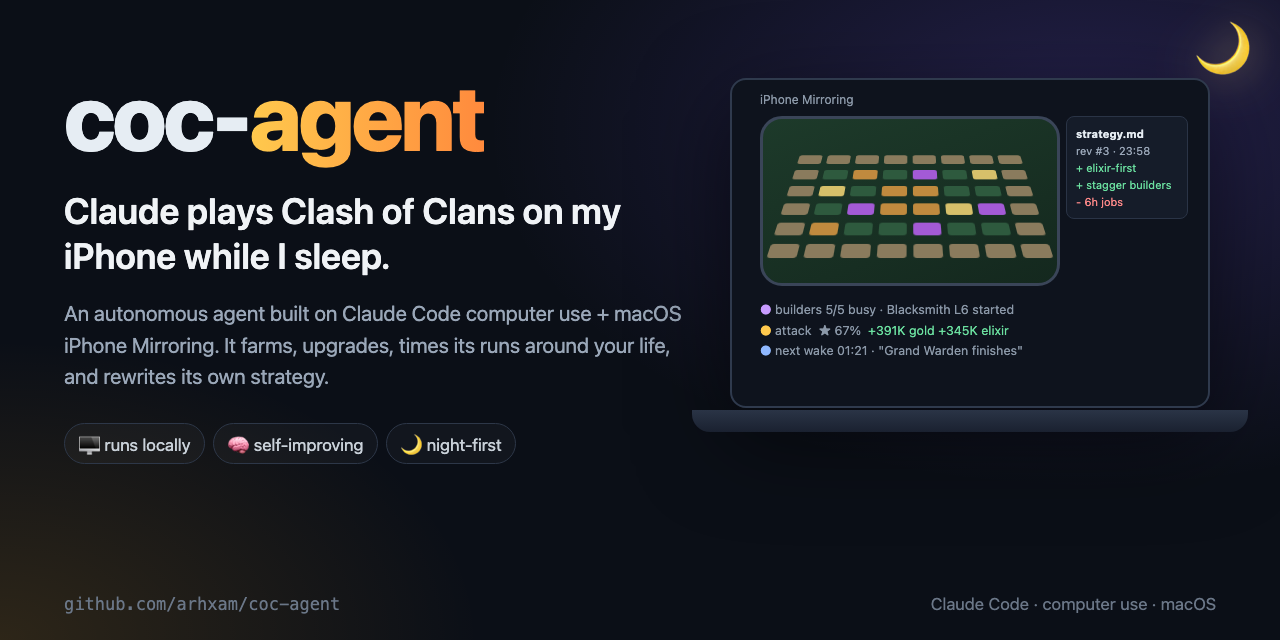
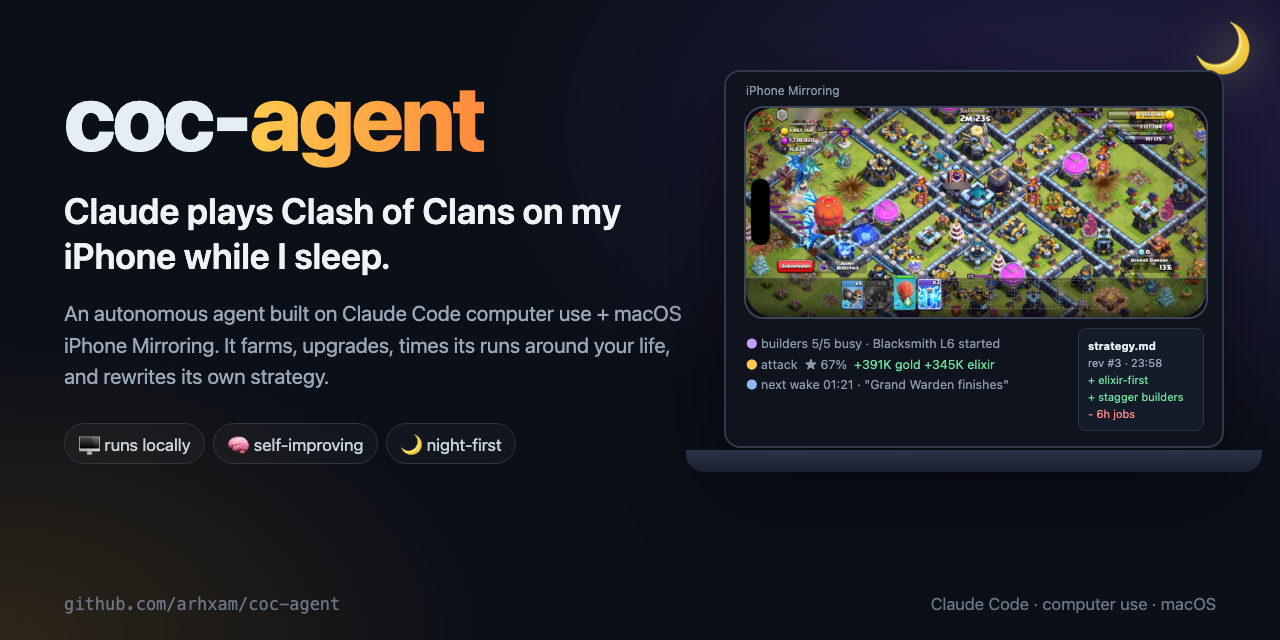
Add real Clash of Clans screenshots from the agent's first run
Frames come from the agent's own computer-use screenshots, with player and
clan names blurred. Adds a hero shot, a run timeline captioned with the
agent's own narration, a screenshot grid in the README, a banner using real
gameplay, and Supercell's fan content notice.

Changed region(s): [[0.5312, 0.0938, 1.0, 0.75]]

diff --git a/docs/images/src/banner.html b/docs/images/src/banner.html
@@ -5,16 +5,17 @@ h1 .a{background:linear-gradient(90deg,#ffc94d,#ff8a3d);-webkit-background-clip:
 .tag{font-size:36px;line-height:1.25;margin-top:26px;font-weight:600;color:#f0f3f6}
 .sub{font-size:21px;line-height:1.5;color:#9aa7b8;margin-top:20px}
 .pills{margin-top:30px}
-.mac{position:absolute;right:70px;top:78px;width:480px;height:330px;border-radius:16px;border:2px solid #2f3a4d;background:#0e131d;box-shadow:0 30px 90px rgba(0,0,0,.55)}
+.mac{position:absolute;right:56px;top:70px;width:500px;height:378px;border-radius:16px;border:2px solid #2f3a4d;background:#0e131d;box-shadow:0 30px 90px rgba(0,0,0,.55)}
 .mac:after{content:"";position:absolute;left:-40px;right:-40px;bottom:-26px;height:22px;border-radius:0 0 18px 18px;background:linear-gradient(#2a3446,#1a2130)}
 .phone{position:absolute;left:28px;top:36px;width:300px;height:170px;border-radius:22px;border:3px solid #3a4558;background:linear-gradient(160deg,#1d3a2a,#14281e);overflow:hidden}
 .grid{position:absolute;inset:16px 22px;display:grid;grid-template-columns:repeat(8,1fr);gap:6px;transform:perspective(300px) rotateX(38deg);}
 .grid b{height:14px;border-radius:3px;background:#2e5a3e}
 .grid b.w{background:#8a7b5d}.grid b.h{background:#c08a3e}.grid b.e{background:#a35ad6}.grid b.t{background:#d6c06a}
-.ttl{position:absolute;left:28px;top:12px;font-size:12px;color:#8b98a8}
-.card{position:absolute;right:20px;top:36px;width:122px;font-size:11px;line-height:1.55;color:#9aa7b8;background:#151c29;border:1px solid #2a3446;border-radius:8px;padding:8px 9px}
+.shot{position:absolute;left:18px;top:34px;width:464px;border-radius:20px;border:2px solid #3a4558}
+.ttl{position:absolute;left:20px;top:11px;font-size:12px;color:#8b98a8}
+.card{position:absolute;right:18px;top:256px;width:126px;font-size:11px;line-height:1.55;color:#9aa7b8;background:#151c29;border:1px solid #2a3446;border-radius:8px;padding:8px 9px}
 .card b{color:#e6edf3}
-.log{position:absolute;left:28px;right:20px;top:220px;font-size:12.5px;line-height:1.65;color:#8b98a8}
+.log{position:absolute;left:20px;right:150px;top:262px;font-size:12.5px;line-height:1.65;color:#8b98a8}
 .moon{position:absolute;right:30px;top:14px;font-size:54px;filter:drop-shadow(0 0 22px rgba(255,220,140,.5))}
 </style></head><body>
 <div class=l>
@@ -26,20 +27,13 @@ h1 .a{background:linear-gradient(90deg,#ffc94d,#ff8a3d);-webkit-background-clip:
 <div class=moon>🌙</div>
 <div class=mac>
  <div class=ttl>iPhone Mirroring</div>
- <div class=phone><div class=grid>
-  <b class=w></b><b class=w></b><b class=w></b><b class=w></b><b class=w></b><b class=w></b><b class=w></b><b class=w></b>
-  <b class=w></b><b></b><b class=h></b><b></b><b class=e></b><b></b><b class=t></b><b class=w></b>
-  <b class=w></b><b class=t></b><b></b><b class=h></b><b class=h></b><b></b><b></b><b class=w></b>
-  <b class=w></b><b></b><b class=e></b><b class=h></b><b class=h></b><b class=t></b><b class=e></b><b class=w></b>
-  <b class=w></b><b class=h></b><b></b><b></b><b class=e></b><b></b><b></b><b class=w></b>
-  <b class=w></b><b class=w></b><b class=w></b><b class=w></b><b class=w></b><b class=w></b><b class=w></b><b class=w></b>
- </div></div>
- <div class=card><b>strategy.md</b><br>rev #3 · 23:58<br><span class=g>+ elixir-first</span><br><span class=g>+ stagger builders</span><br><span class=r>- 6h jobs</span></div>
- <div class=log class=mono>
+ <img class=shot src="../game/attack.jpg">
+ <div class=log>
   <span class=p>●</span> builders 5/5 busy · Blacksmith L6 started<br>
   <span class=y>●</span> attack &nbsp;★ 67% &nbsp;<span class=g>+391K gold +345K elixir</span><br>
   <span class=b>●</span> next wake 01:21 · "Grand Warden finishes"
  </div>
+ <div class=card><b>strategy.md</b><br>rev #3 · 23:58<br><span class=g>+ elixir-first</span><br><span class=g>+ stagger builders</span><br><span class=r>- 6h jobs</span></div>
 </div>
 <div class=foot><span class=mono>github.com/arhxam/coc-agent</span><span>Claude Code · computer use · macOS</span></div>
 </body></html>

diff --git a/docs/images/src/timeline.html b/docs/images/src/timeline.html
@@ -1,0 +1,21 @@
+<html><head><link rel=stylesheet href=common.css><style>
+html,body{height:720px}
+h2{position:absolute;left:64px;top:40px;font-size:40px;font-weight:800;letter-spacing:-1px}
+.s{position:absolute;left:64px;top:96px;font-size:19px;color:#9aa7b8}
+.g{position:absolute;left:64px;top:146px;width:1152px;display:grid;grid-template-columns:repeat(3,1fr);gap:22px 20px}
+.c img{width:100%;border-radius:12px;display:block;border:1px solid #263041}
+.t{margin-top:9px;font-size:13px;color:#ffc94d;font-family:"SF Mono",Menlo,monospace}
+.q{margin-top:3px;font-size:14.5px;line-height:1.4;color:#d5dde6}
+.q:before{content:"“"}.q:after{content:"”"}
+</style></head><body>
+<h2>One run, through the agent's eyes</h2>
+<div class=s>Real screenshots Claude took during its first run. The captions are its own words, quoted from the session log.</div>
+<div class=g>
+ <div class=c><img src="../game/home.jpg"><div class=t>13:43 · home village</div><div class=q>Game is open and I'm in the village: collected loot, now reading the Gold Storage's buttons before checking the free builder.</div></div>
+ <div class=c><img src="../game/upgrade.jpg"><div class=t>13:44 · builder</div><div class=q>Blacksmith upgrade is running on the last free builder.</div></div>
+ <div class=c><img src="../game/scout.jpg"><div class=t>13:44 · scouting</div><div class=q>Ranked attacks are used up, so I'm starting a regular multiplayer attack to refill elixir.</div></div>
+ <div class=c><img src="../game/attack.jpg"><div class=t>13:45 · attack 1</div><div class=q>Attack in progress on a 2M gold / 2.1M elixir base — deploying the last dragons, siege machine and lightning spells.</div></div>
+ <div class=c><img src="../game/dragons.jpg"><div class=t>13:49 · attack 2</div><div class=q>All troops are in on the second attack (25% and climbing) — writing memory files while the battle plays out.</div></div>
+ <div class=c><img src="../game/victory.jpg"><div class=t>13:52 · result</div><div class=q>3 zaps per AD killed 3 of 4 ADs (4+4+3), then 9 edrags from left edge.</div></div>
+</div>
+</body></html>

diff --git a/docs/images/src/hero.html b/docs/images/src/hero.html
@@ -1,0 +1,14 @@
+<html><head><link rel=stylesheet href=common.css><style>
+html,body{height:720px}
+.shot{position:absolute;left:64px;top:44px;width:1152px;border-radius:26px;border:1px solid #2a3446;box-shadow:0 30px 80px rgba(0,0,0,.6)}
+.bub{position:absolute;left:110px;right:110px;top:470px;background:rgba(13,17,26,.92);border:1px solid #6a4fb3;border-radius:16px;padding:18px 24px;backdrop-filter:blur(8px);box-shadow:0 20px 60px rgba(0,0,0,.5)}
+.who{font-size:15px;color:#c79bff;font-weight:700;margin-bottom:6px}
+.who span{color:#8b98a8;font-weight:400}
+.txt{font-size:23px;line-height:1.4;color:#f0f3f6}
+.foot{bottom:22px}
+</style></head><body>
+<img class=shot src="../game/attack.jpg">
+<div class=bub><div class=who>Claude <span>· 13:45 · first real run · via iPhone Mirroring</span></div>
+<div class=txt>"Attack in progress on a 2M gold / 2.1M elixir base — deploying the last dragons, siege machine and lightning spells."</div></div>
+<div class=foot><span class=mono>github.com/arhxam/coc-agent</span><span>coc-agent · Claude Code computer use</span></div>
+</body></html>

diff --git a/README.md b/README.md
@@ -16,6 +16,8 @@
   <img alt="License: MIT" src="https://img.shields.io/badge/license-MIT-blue">
 </p>
 
+<p align="center"><img src="docs/images/hero.jpg" alt="Real screenshot: Claude attacking with Electro Dragons through iPhone Mirroring, with its own narration" width="100%"></p>
+
 ---
 
 ## What it does
@@ -26,6 +28,29 @@ There's no game API, no memory reading and no injected code. Claude **looks at t
 - **Walls as an overflow valve.** It upgrades walls only with surplus above a reserve, a few per day.
 - **Schedules around your life.** It does most of its work in a night window, and during the day only when you're home, the Mac is idle and the phone is locked nearby. **Claude picks its own next wake-up time** ("Builder 2 frees at 03:10, wake then").
 - **Learns.** It keeps a persistent memory, logs every attack and upgrade, tunes its own knobs (loot thresholds, attacks per run) from its stats, runs one experiment at a time, and rewrites `strategy.md` in a daily review.
+
+## See it play
+
+These are real screenshots Claude took through iPhone Mirroring during its first run. The captions are its own words from the session log. Other players' names, and mine, are blurred.
+
+<p align="center"><img src="docs/images/timeline.jpg" alt="Six real screenshots from one run: home village, upgrade, scouting, two attacks, victory" width="100%"></p>
+
+<table>
+  <tr>
+    <td width="50%"><img src="docs/images/game/home.jpg" alt="Home village"><br><sub><b>Reads the base.</b> Resources, builders (1/5 free), loot to collect.</sub></td>
+    <td width="50%"><img src="docs/images/game/upgrade.jpg" alt="Upgrade confirm dialog"><br><sub><b>Starts upgrades.</b> It checks the confirm button costs elixir, not gems, and skips the Hammer of Building.</sub></td>
+  </tr>
+  <tr>
+    <td><img src="docs/images/game/scout.jpg" alt="Scouting an opponent base"><br><sub><b>Scouts.</b> Zooms on the available loot and hits Next until a base meets its loot threshold.</sub></td>
+    <td><img src="docs/images/game/dragons.jpg" alt="Electro Dragons attacking"><br><sub><b>Attacks.</b> Lightning on the air defenses, then Electro Dragons in a line from one side.</sub></td>
+  </tr>
+  <tr>
+    <td><img src="docs/images/game/victory.jpg" alt="Victory screen, 67%, 357K gold"><br><sub><b>Banks the loot.</b> 1★ 67%, +391K gold +345K elixir with the league bonus. Then it logs the result for <code>coc stats</code>.</sub></td>
+    <td><img src="docs/images/game/builders.jpg" alt="Builder list with timers" width="62%"><br><sub><b>Plans around timers.</b> It turns every builder timer into a clock time and picks its next wake-up from them.</sub></td>
+  </tr>
+</table>
+
+### What it wrote afterwards
 
 <p align="center"><img src="docs/images/run.png" alt="The agent's first real run: 2 attacks, a builder upgrade started, next wake-up chosen" width="90%"></p>
 
@@ -127,7 +152,7 @@ Config lives in `~/.coc-agent/config.json`. The useful knobs are the night windo
 
 ## Disclaimer
 
-Not affiliated with, endorsed, sponsored, or approved by Supercell. Clash of Clans is a trademark of Supercell Oy. Not affiliated with Anthropic or Apple.
+This material is unofficial and is not endorsed by Supercell. For more information see Supercell's Fan Content Policy: [www.supercell.com/fan-content-policy](https://www.supercell.com/fan-content-policy). Clash of Clans is a trademark of Supercell Oy. The game screenshots are from my own account's gameplay. Not affiliated with Anthropic or Apple.
 
 ## License
 
